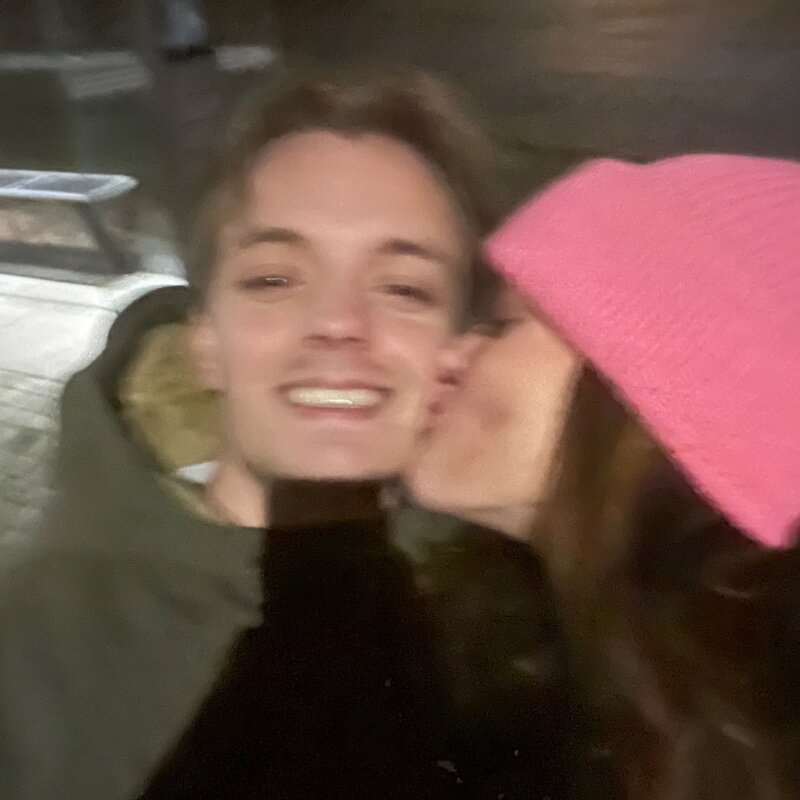
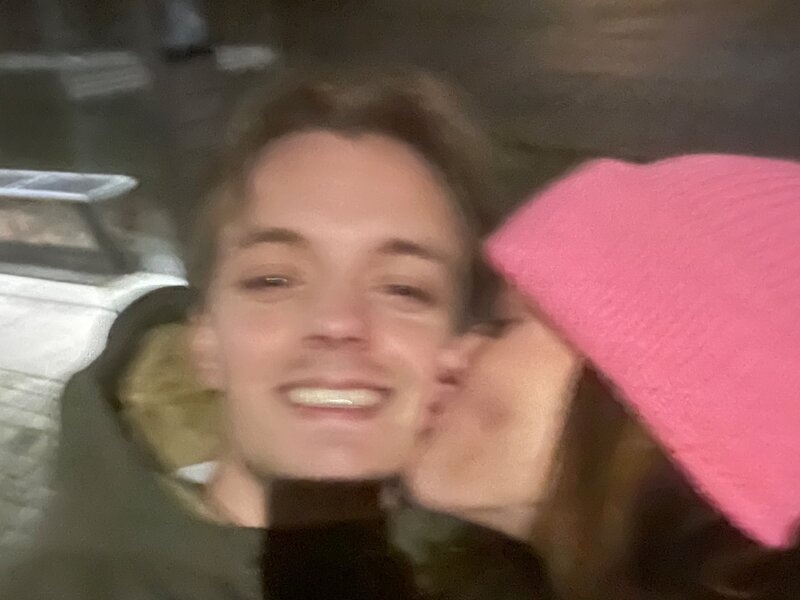
Crop photos to 4:3 landscape and revert CSS to simple object-fit: cover
Instead of fighting CSS to show portrait photos in landscape grid cells,
crop the actual images to match the grid cell aspect ratio. Crops from
the top to keep faces visible. Reverted object-position hack.

https://claude.ai/code/session_0188ivypMLfvPLNktMgLGKfe

diff --git a/index.html b/index.html
@@ -55,7 +55,6 @@
       width: 100%;
       height: 100%;
       object-fit: cover;
-      object-position: center 15%;
       display: block;
     }
 
@@ -241,7 +240,6 @@
       width: 100%;
       height: 100%;
       object-fit: cover;
-      object-position: center 15%;
       display: block;
     }
 
